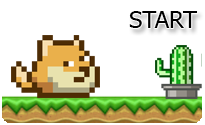
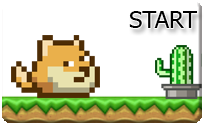
resource for other theme

Changed region(s): [[0.0, 0.024, 0.9951, 0.984]]

diff --git a/flappy/flappy2.js b/flappy/flappy2.js
@@ -1,7 +1,7 @@
 enchant();
 
-var ENEMY = 'images/cactus01.png';
-var HERO = 'images/shiba0.png';
+var ENEMY = 'images/1_cactus.png';
+var HERO = 'images/1_shiba.png';
 var BG = 'images/bg11.png';
 var SOUND_BG = 'sounds/comedy.mp3'
 var SOUND_LOST = 'sounds/lost.mp3'
@@ -33,8 +33,8 @@ window.onload = function() {
     game.onload = function() {
         
         game.rootScene.backgroundColor = "#000";
-        // var scene = new SceneGame();
-        var scene = new ThemeSelectScene();
+        var scene = new SceneGame();
+        // var scene = new ThemeSelectScene();
         game.pushScene(scene);
 
     }
